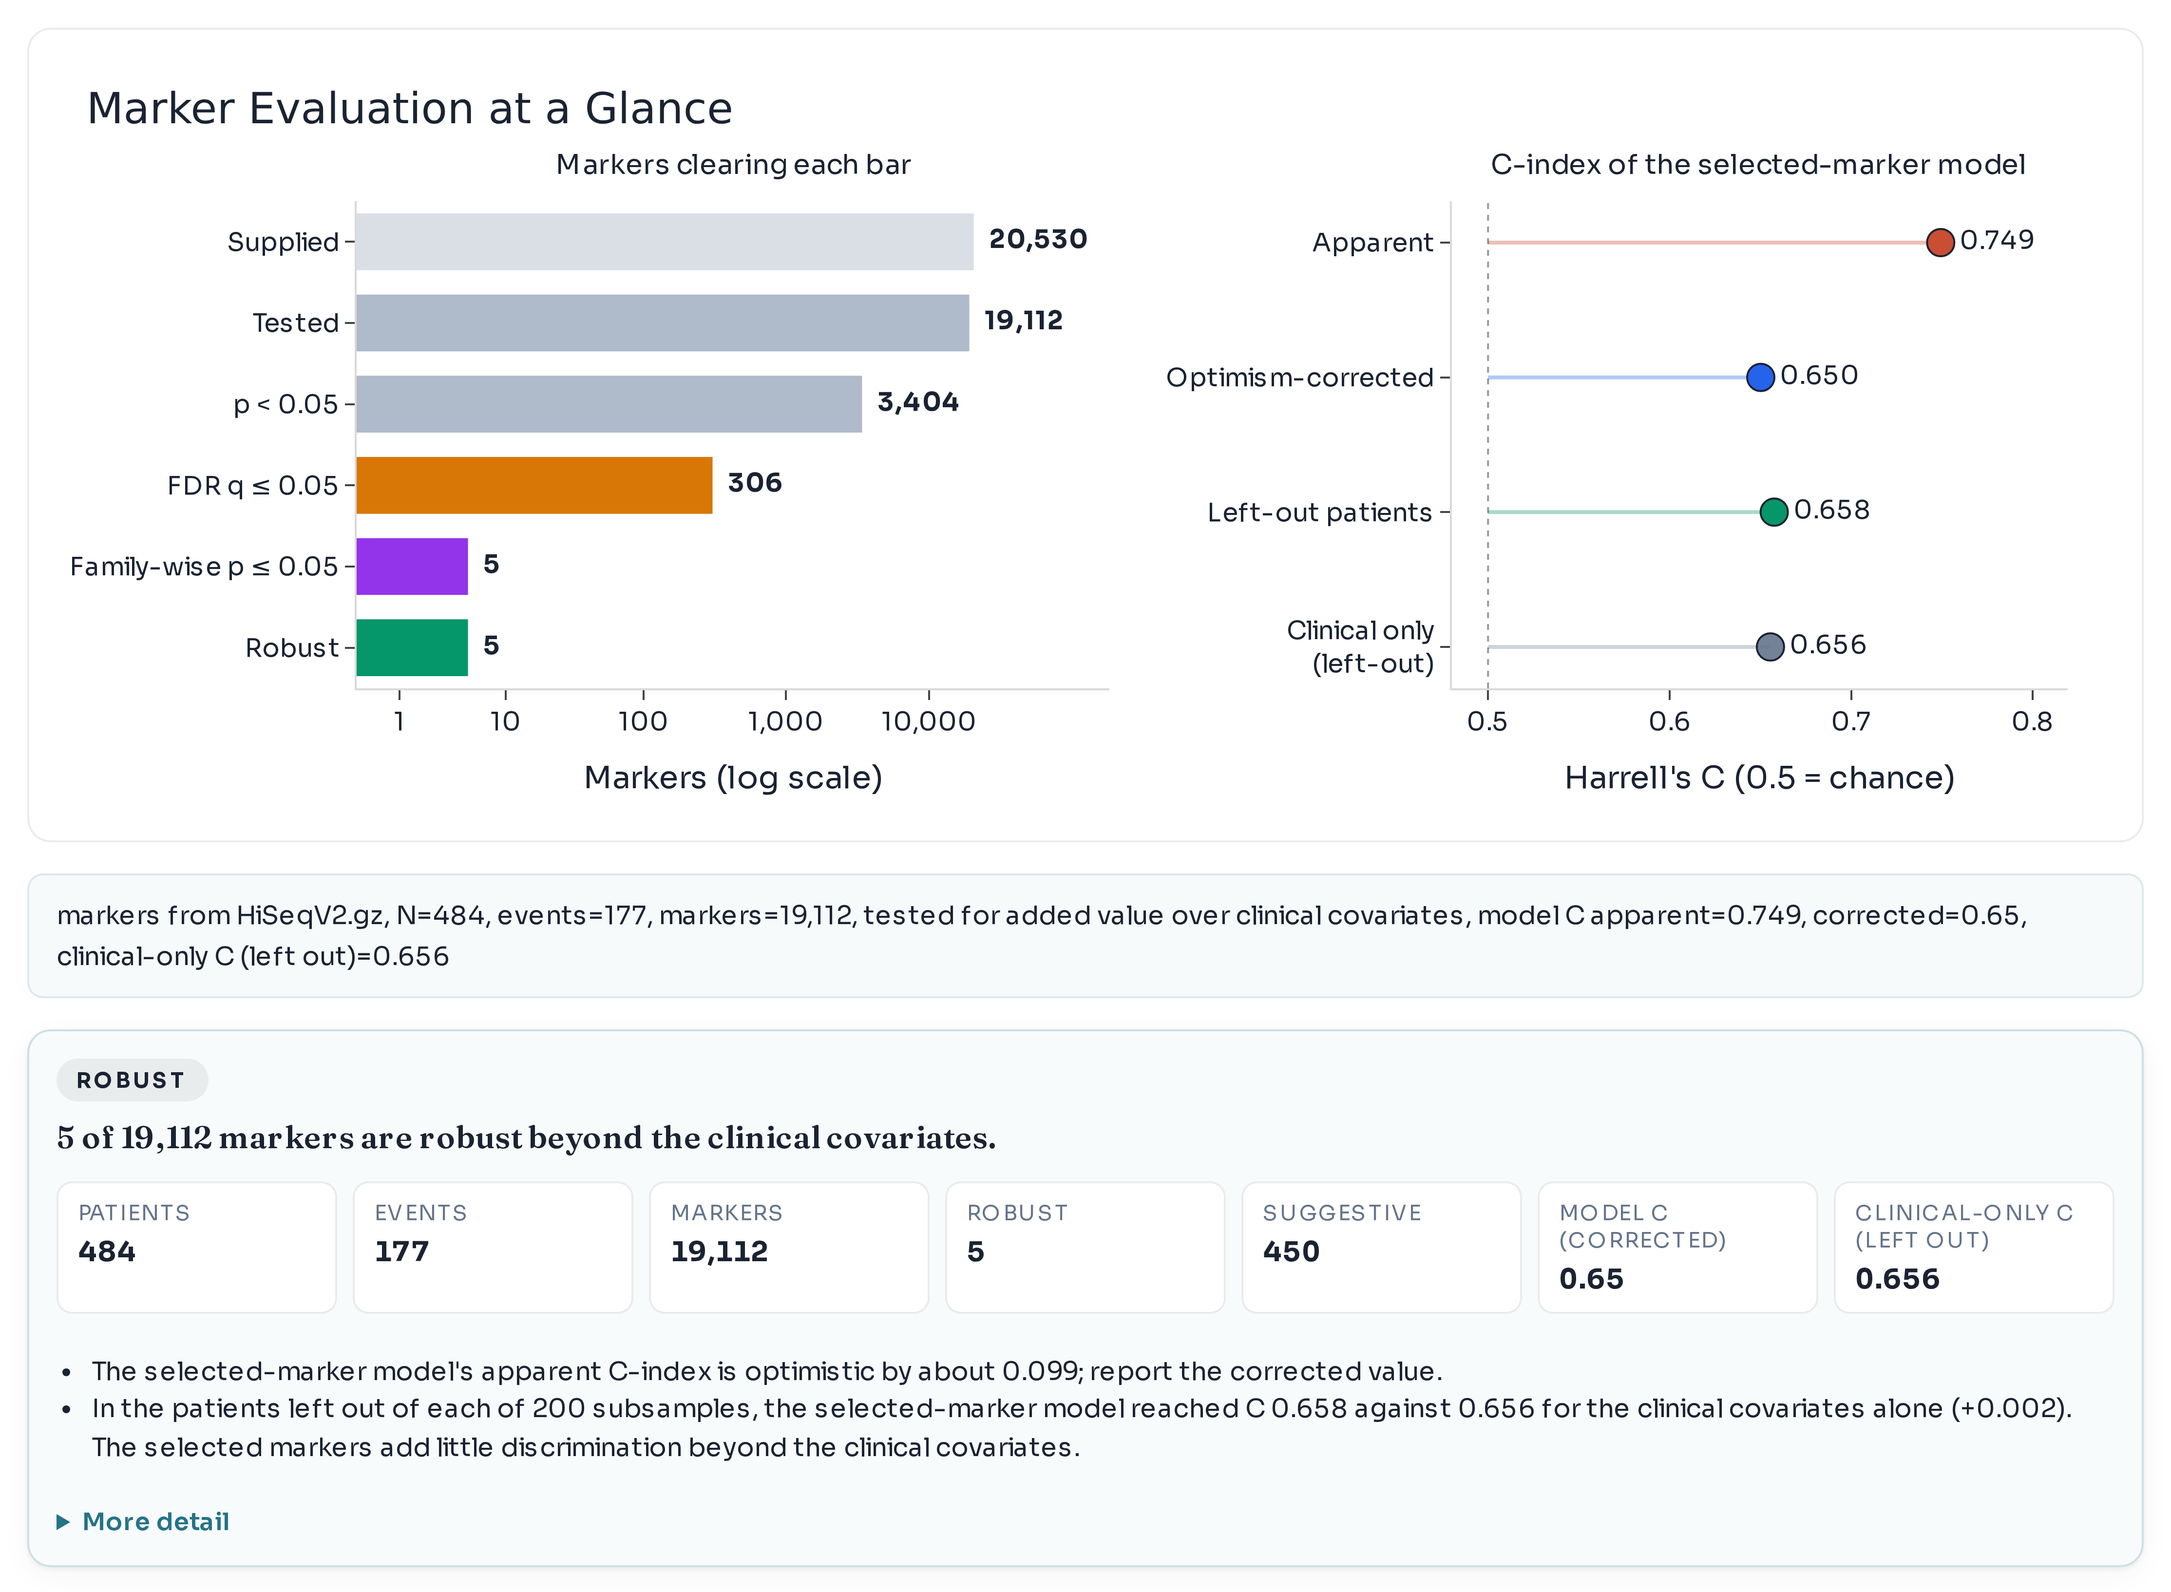
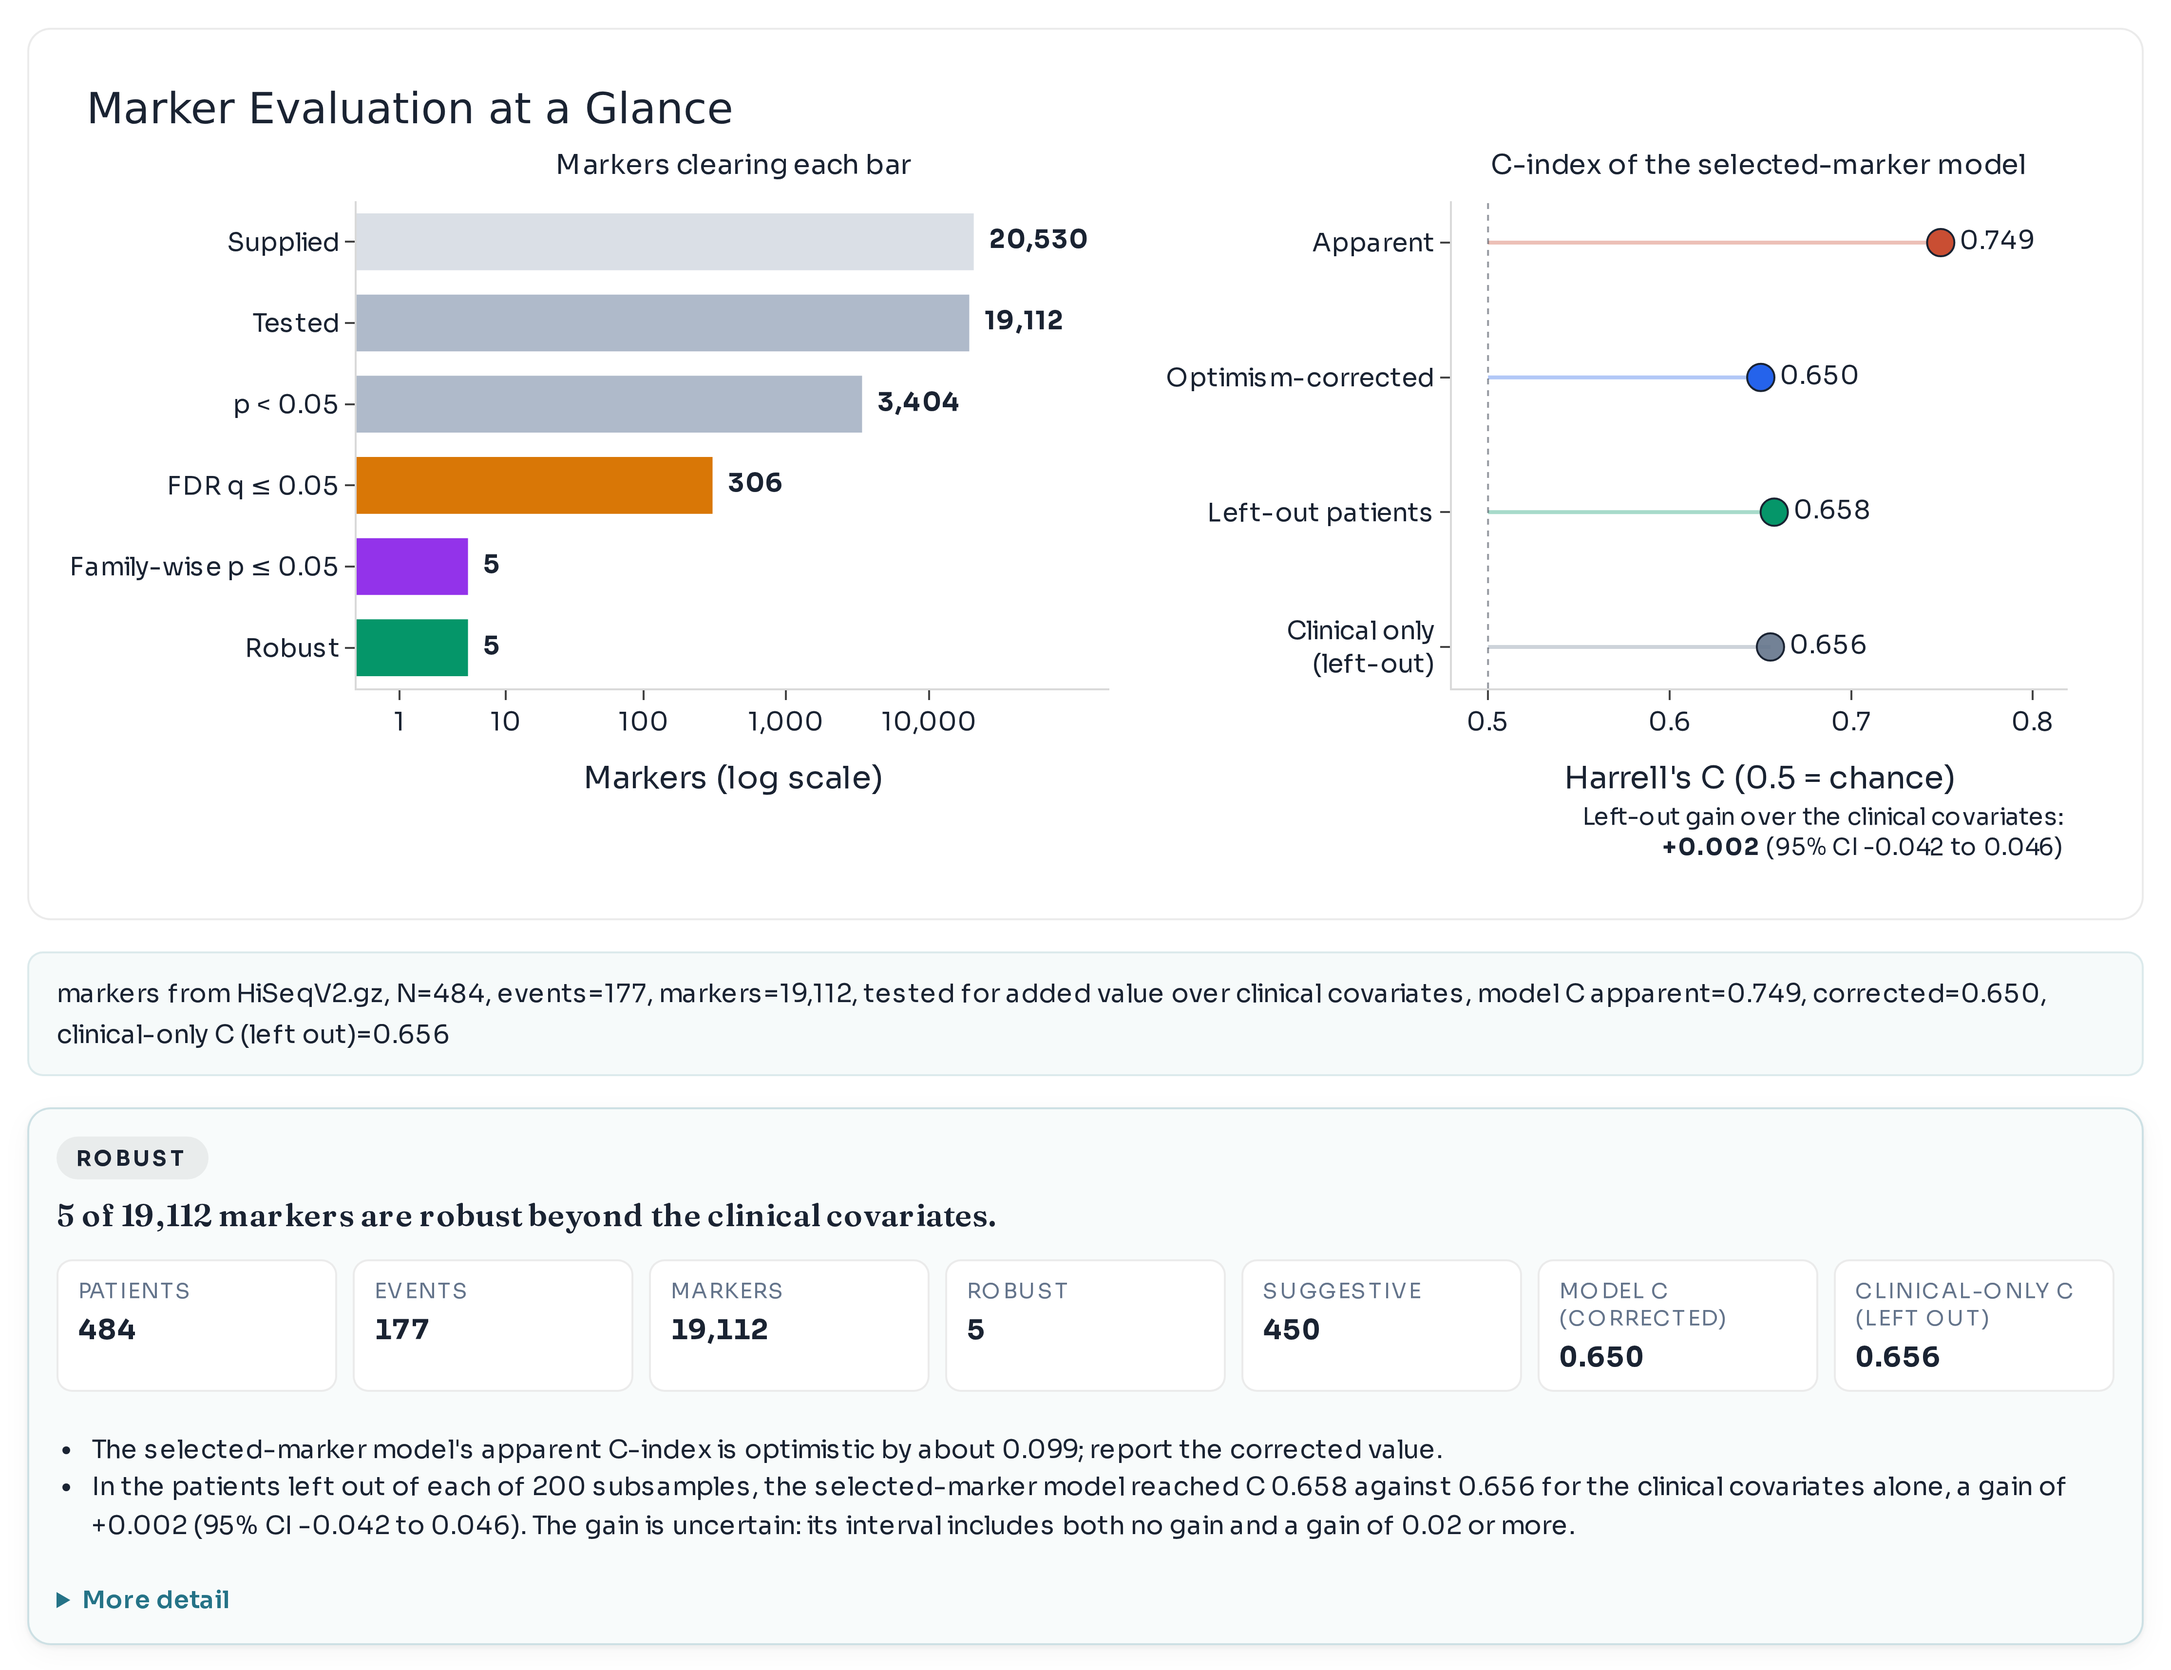
Describe the gain's interval and the verdict built on it in the README and the manual, and recapture the Markers screenshots with them

diff --git a/README.md b/README.md
@@ -178,14 +178,17 @@ The right panel shows the C-index of a model with the clinical covariates and th
 - **Apparent** (0.749): measured on the same patients the genes were chosen in. Always too optimistic.
 - **Optimism-corrected** (0.650): the expected value in new patients.
 - **Left-out patients** (0.658) against **Clinical only** (0.656): both measured in patients left out of each
-  subsample. The genes add almost nothing beyond age, sex and stage.
+  subsample. The note under the panel gives their difference, the gain, with its 95% interval: +0.002 (-0.042 to
+  0.046). The genes add almost nothing beyond age, sex and stage, and at most about 0.05.
 
 ![Summary figure: markers clearing each bar, and the C-index from apparent to left-out beside clinical only](github_images/markers_summary.png)
 
 **5. Read the verdict.** The card below the figure gives the verdict and the cautions that matter most. Here it says
 **Robust**: 5 of 19,112 genes (DKK1, NTSR1, TLE1, CTCFL and FAM117A) hold up beyond the clinical covariates. The
-cautions add that the apparent C-index is optimistic by 0.099 and that the genes add little discrimination beyond
-the clinical covariates. **More detail** lists what was checked and the next steps.
+cautions add that the apparent C-index is optimistic by 0.099 and that the gain over the clinical covariates is
+uncertain: its interval includes both no gain and a gain of 0.02 or more. SurvStudio calls the gain little only
+when the whole interval lies below 0.02, and real when it lies above 0. **More detail** lists what was checked and
+the next steps.
 
 ![Verdict card: 5 of 19,112 markers are robust beyond the clinical covariates, with two cautions](github_images/markers_verdict.png)
 
@@ -267,7 +270,9 @@ too. `.gz` files can be attached as downloaded.
   - *Marginal only*: linked to survival on its own, but not beyond the clinical covariates; it mostly tracks them.
   - *Not supported*: no evidence after the error control. Small real effects can still hide here.
 - **Added value over clinical covariates.** Whether a marker tells you something about survival that age, sex and
-  stage do not already tell you. This is the test that matters for a prognostic claim.
+  stage do not already tell you. This is the test that matters for a prognostic claim. SurvStudio measures it as
+  the gain in C-index over the clinical covariates in patients left out of the subsamples, with a 95% interval:
+  little added value when the interval lies below 0.02, added value when it lies above 0, uncertain otherwise.
 - **Cautions and "Needs review".** Cautions list what weakens the result (optimism, little added value, missing
   data, repeated patients). The verdict reads **Needs review** when no marker is robust or when two samples look
   like the same patient; then treat the markers as hypotheses, or keep one sample per patient and run again.
@@ -282,8 +287,8 @@ Sentences that report these results without overclaiming:
 
 > Of 19,112 genes, five passed family-wise error control and were stable across 200 subsamples. A model with the
 > selected genes had an optimism-corrected C-index of 0.650; in patients left out of the subsamples it reached
-> 0.658, against 0.656 for age, sex and stage alone, so the genes added little prognostic information beyond these
-> factors.
+> 0.658, against 0.656 for age, sex and stage alone (gain 0.002, 95% CI -0.042 to 0.046), so the genes added no
+> clear prognostic information beyond these factors.
 
 ## Troubleshooting
 

diff --git a/docs/reference.md b/docs/reference.md
@@ -520,14 +520,19 @@ different patients.
 is fitted. The evaluation reports its apparent C-index; an optimism-corrected C-index (the apparent value minus
 the mean difference between the whole procedure's C-index in each subsample and in the patients left out of it);
 the C-index in the left-out patients next to that of the clinical covariates alone, paired subsample by
-subsample; and how much the top marker's effect shrinks outside the rows that selected it (the winner's curse of
+subsample, and their mean difference, the gain, with a 95% interval (the corrected resampled t interval of
+Nadeau and Bengio, which allows for the overlap between subsamples: `signature_gain_left_out_ci`, with
+`signature_gain_left_out_sd` and the same interval for the left-out C-index, `signature_c_left_out_ci`); and how much the top marker's effect shrinks outside the rows that selected it (the winner's curse of
 picking the strongest marker).
 
 **Summary figure and verdict.** The Markers tab opens its results with one figure: the number of markers that clear
 each bar (supplied, tested, p < 0.05, FDR q ≤ 0.05, family-wise p ≤ 0.05, robust; log scale for genome-wide
 panels) and the model's C-index from apparent to optimism-corrected to the left-out patients, beside the clinical
-covariates alone. The verdict card follows: Robust when at least one marker is robust and no repeated patients
-were flagged, otherwise Needs review, with the key numbers and the first two cautions (the rest under More
+covariates alone, with the gain and its interval under the C-index ladder. The verdict card follows: Robust when
+at least one marker is robust and no repeated patients were flagged, otherwise Needs review. On added value it
+follows the gain's interval: little discrimination when the interval lies below 0.02, added discrimination when
+it lies above 0, and an uncertain gain otherwise; results saved without an interval are judged on the mean gain
+against 0.02. The card gives the key numbers and the first two cautions (the rest under More
 detail). Then come the stability and rank plots and the marker table.
 `survival_toolkit.plots.build_marker_summary_figure(result)` draws the figure from Python.
 
